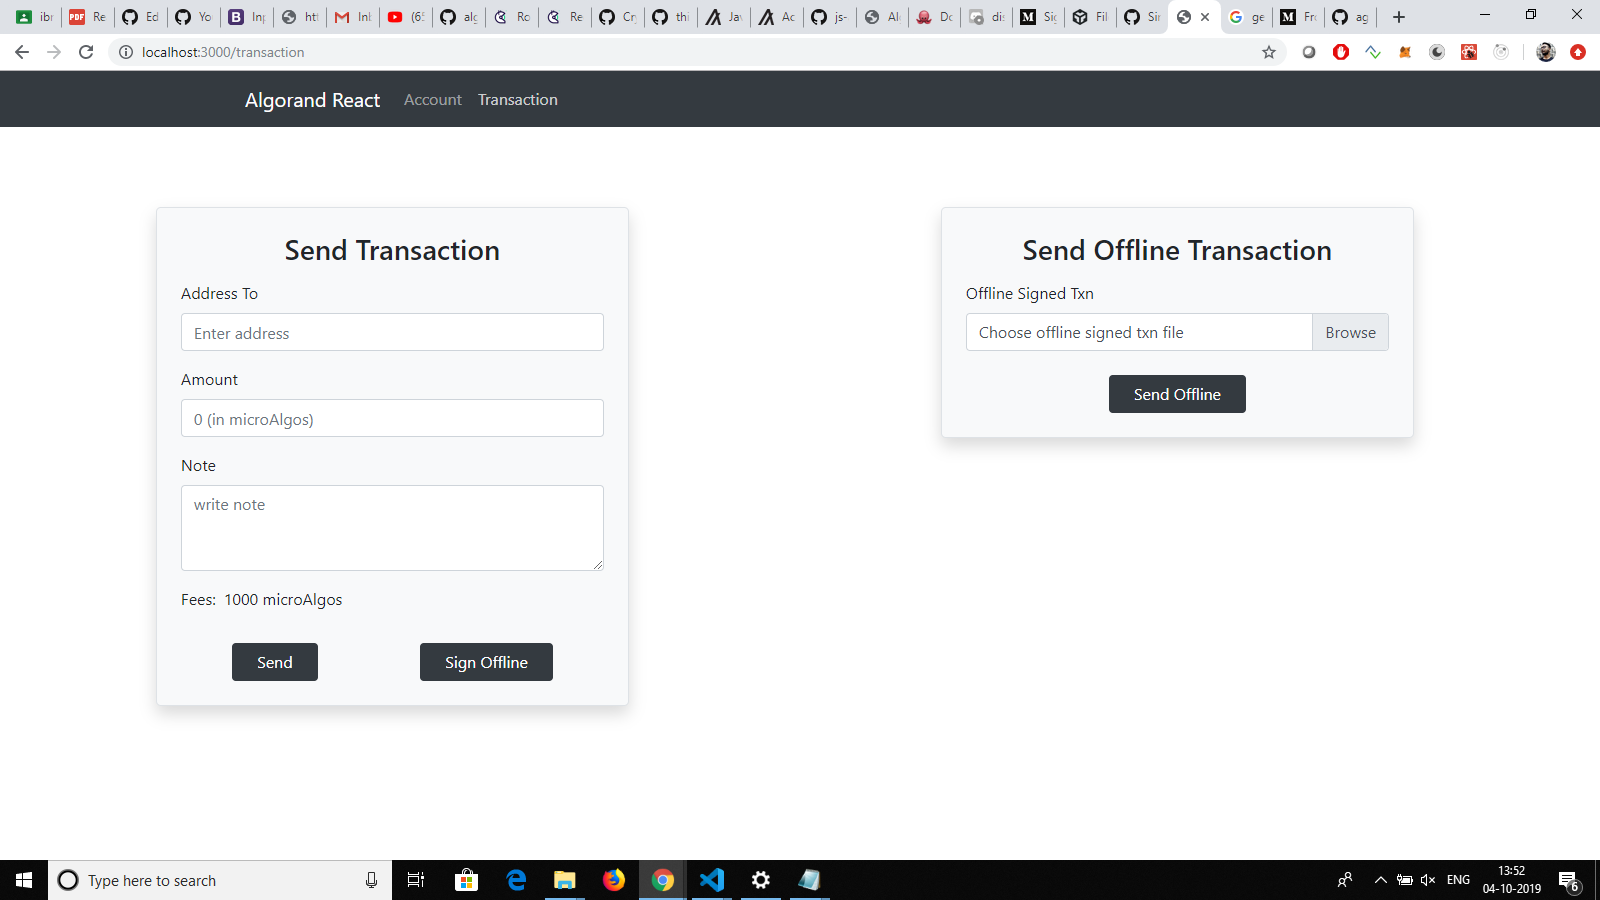
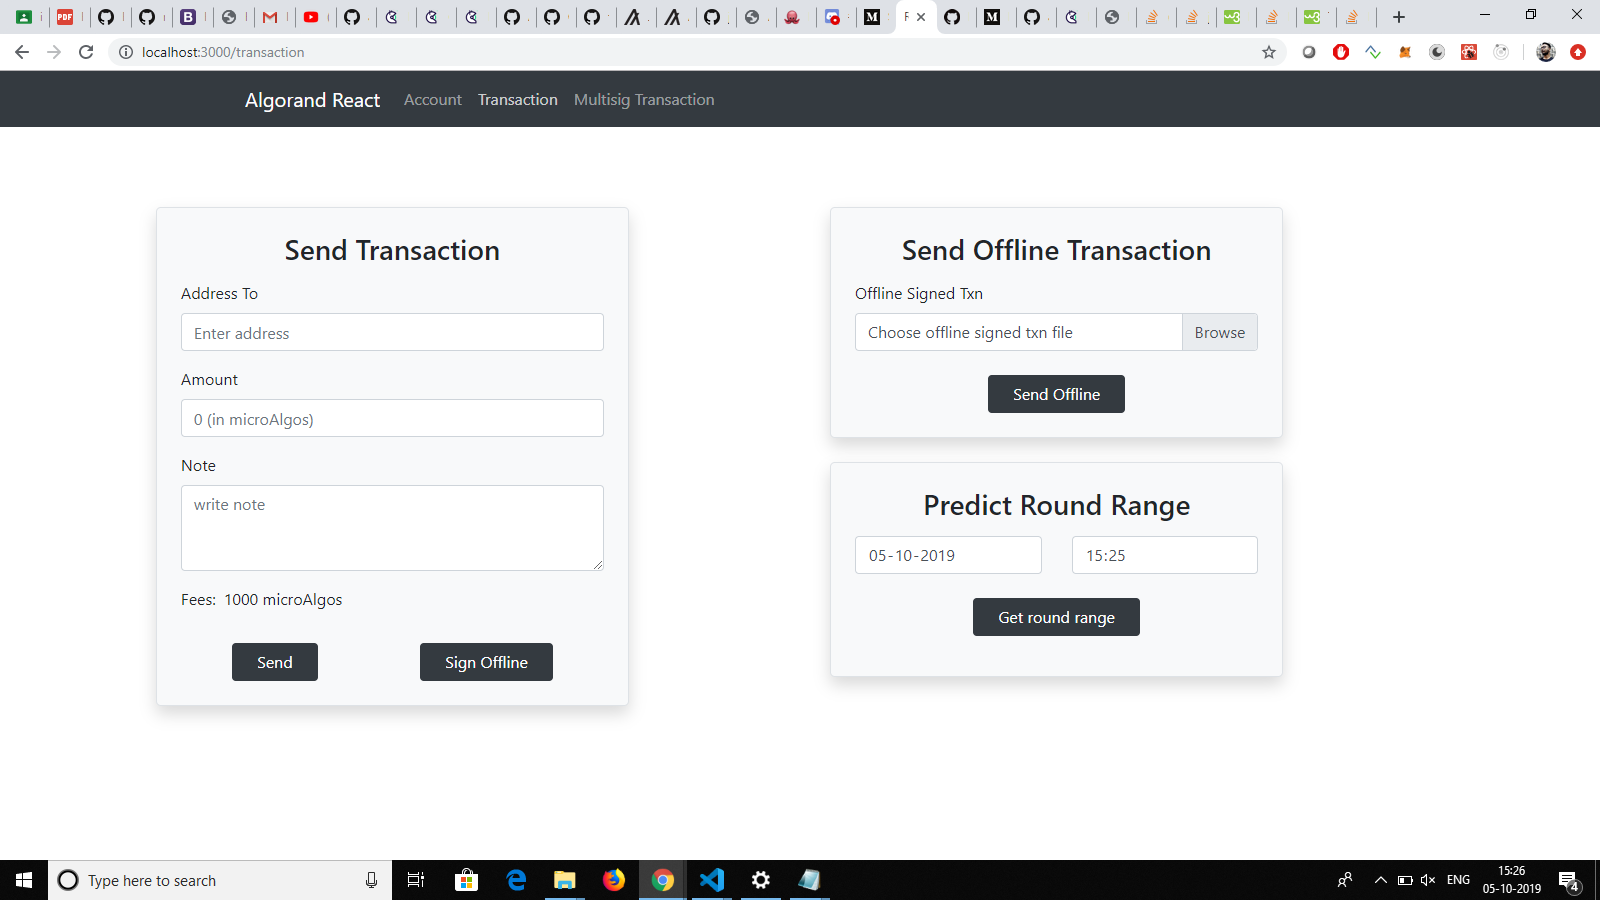
added predicted round range

diff --git a/src/components/stateful/predictedroundrangecomponent.jsx b/src/components/stateful/predictedroundrangecomponent.jsx
@@ -1,0 +1,141 @@
+import * as React from "react";
+import AlgorandClient from "../../services/algorandsdk";
+
+/**
+ * This component will show you predicted round range based on datetime entered in the input.
+ * @state date: string -> load the date entered
+ * @state time: string -> load the time entered
+ * @state predictedRound: number -> store the predicted round start
+ * @state predLoadStart: boolean -> true when starting prediction
+ * @state predLoadEnd: boolean -> true at the end of prediction
+ *
+ * @author [Mitrasish Mukherjee](https://github.com/mmitrasish)
+ */
+export default class PredictedRoundRangeComponent extends React.Component {
+  constructor(props) {
+    super(props);
+    this.state = {
+      date: "",
+      time: "",
+      predictedRound: 0,
+      predLoadStart: false,
+      predLoadEnd: false
+    };
+  }
+  componentDidMount() {
+    let today = new Date();
+    let todayDate =
+      today.getFullYear() +
+      "-" +
+      ("0" + (today.getMonth() + 1)).slice(-2) +
+      "-" +
+      ("0" + today.getDate()).slice(-2);
+
+    let todayTime =
+      ("0" + today.getHours()).slice(-2) +
+      ":" +
+      ("0" + today.getMinutes()).slice(-2);
+
+    this.setState({ date: todayDate, time: todayTime }, () => {
+      console.log(this.state.time);
+    });
+  }
+  getRoundRange = () => {
+    this.setState({ predLoadStart: true }, () => {
+      this.calculateAverageRoundPerSec();
+    });
+  };
+
+  loadDate = e => {
+    this.setState({ date: e.target.value }, () => {
+      console.log(this.state.date);
+    });
+  };
+
+  loadTime = e => {
+    this.setState({ time: e.target.value }, () => {
+      console.log(this.state.time);
+    });
+  };
+
+  calculateAverageRoundPerSec = async () => {
+    console.log("Started");
+    let params = await AlgorandClient.getTransactionParams();
+    let startTime = Date.now();
+    let round1 = params.lastRound;
+    console.log(round1);
+    setTimeout(async () => {
+      let params = await AlgorandClient.getTransactionParams();
+      let endTime = Date.now();
+      let round2 = params.lastRound;
+      console.log(round2);
+      let diffRound = round2 - round1;
+      let timeTaken = endTime - startTime;
+      const roundTimeRatio = diffRound / timeTaken;
+      const dateGiven = new Date(this.state.date + " " + this.state.time);
+      const dateDiff = Math.abs(dateGiven.getTime() - new Date().getTime());
+      const predictedRound = Math.ceil(dateDiff * roundTimeRatio) + round2;
+      console.log(roundTimeRatio, dateDiff, predictedRound);
+      this.setState({
+        predictedRound,
+        predLoadStart: false,
+        predLoadEnd: true
+      });
+    }, 6000);
+  };
+  render() {
+    return (
+      <div
+        style={{ padding: "4em" }}
+        className="rounded-lg shadow border bg-light p-4"
+      >
+        <div className="form-group text-center">
+          <h3>Predict Round Range</h3>
+        </div>
+        <div className="form-group text-center">
+          <div className="row">
+            <div className="col-md-6">
+              <input
+                type="date"
+                className="form-control"
+                value={this.state.date}
+                onChange={this.loadDate}
+              />
+            </div>
+            <div className="col-md-6">
+              <input
+                type="time"
+                className="form-control"
+                defaultValue={this.state.time}
+                onChange={this.loadTime}
+              />
+            </div>
+          </div>
+        </div>
+        <div className="form-group text-center">
+          <button
+            type="button"
+            className="btn btn-dark px-4 mt-2"
+            onClick={e => this.getRoundRange()}
+          >
+            Get round range
+          </button>
+        </div>
+        <div className="form-group text-center">
+          {this.state.predLoadStart ? (
+            <div className="spinner-border text-info" role="status">
+              <span className="sr-only">Loading...</span>
+            </div>
+          ) : this.state.predLoadEnd ? (
+            <div>
+              <div>Predicted Round Range: </div>
+              <h4>
+                {this.state.predictedRound} - {this.state.predictedRound + 1000}
+              </h4>
+            </div>
+          ) : null}
+        </div>
+      </div>
+    );
+  }
+}

diff --git a/src/components/stateful/transactioncomponent.jsx b/src/components/stateful/transactioncomponent.jsx
@@ -64,7 +64,6 @@ export default class TransactionComponent extends React.Component {
 
   componentDidMount() {
     $('[data-toggle="tooltip"]').tooltip();
-    this.calculateAverageRoundPerSec();
   }
 
   componentDidUpdate() {
@@ -201,21 +200,6 @@ export default class TransactionComponent extends React.Component {
     element.click();
   };
 
-  calculateAverageRoundPerSec = async () => {
-    let params = await AlgorandClient.getTransactionParams();
-    let startTime = Date.now();
-    let round1 = params.lastRound;
-    console.log(round1);
-    setTimeout(async () => {
-      let params = await AlgorandClient.getTransactionParams();
-      let endTime = Date.now();
-      let round2 = params.lastRound;
-      console.log(round2);
-      let diffRound = round2 - round1;
-      let timeTaken = endTime - startTime;
-      console.log(diffRound, timeTaken);
-    }, 60000);
-  };
 
   render() {
     return (

diff --git a/src/components/pages/transactionpage.jsx b/src/components/pages/transactionpage.jsx
@@ -1,6 +1,7 @@
 import * as React from "react";
 import TransactionComponent from "../stateful/transactioncomponent";
 import TransactionOfflineComponent from "../stateful/transactionofflinecomponent";
+import PredictedRoundRangeComponent from "../stateful/predictedroundrangecomponent";
 
 /**
  * This component contain transaction components.
@@ -16,8 +17,13 @@ const TransactionPage = () => {
         </div>
       </div>
       <div className="col-md-6 d-flex justify-content-center">
-        <div style={{ marginTop: "5em" }} className="col-md-8">
-          <TransactionOfflineComponent />
+        <div className="col-md-12">
+          <div style={{ marginTop: "5em" }} className="col-md-8">
+            <TransactionOfflineComponent />
+          </div>
+          <div className="col-md-8 mt-4">
+            <PredictedRoundRangeComponent />
+          </div>
         </div>
       </div>
     </div>

diff --git a/src/components/stateful/multisigtransactioncomponent.jsx b/src/components/stateful/multisigtransactioncomponent.jsx
@@ -4,7 +4,6 @@ import $ from "jquery";
 import AlgorandClient from "../../services/algorandsdk";
 import copy from "clipboard-copy";
 import SuggestedFeeComponent from "./suggestedfeecomponent";
-import { async } from "q";
 
 /**
  * This component is used to send online multisig transaction.
@@ -197,6 +196,7 @@ export default class MultisigTransactionComponent extends React.Component {
           mparams,
           accountList[i].sk
         ).blob;
+        console.log(accountList[i].addr);
       }
       //submit the transaction
       AlgorandClient.sendRawTransaction(rawSignedTxn[rawSignedTxn.length - 1])

diff --git a/src/components/stateful/transactionofflinecomponent.jsx b/src/components/stateful/transactionofflinecomponent.jsx
@@ -90,10 +90,7 @@ export default class TransactionOfflineComponent extends React.Component {
   render() {
     return (
       <div>
-        <div
-          style={{ padding: "4em" }}
-          className="rounded-lg shadow border bg-light p-4"
-        >
+        <div className="rounded-lg shadow border bg-light p-4">
           <div className="form-group text-center">
             <h3>Send Offline Transaction</h3>
           </div>

diff --git a/src/components/pages/multisigtransactionpage.jsx b/src/components/pages/multisigtransactionpage.jsx
@@ -2,7 +2,7 @@ import * as React from "react";
 import MultisigTransactionComponent from "../stateful/multisigtransactioncomponent";
 
 /**
- * This component contain transaction components.
+ * This component contain multi signature transaction components.
  *
  * @author [Mitrasish Mukherjee](https://github.com/mmitrasish)
  */
